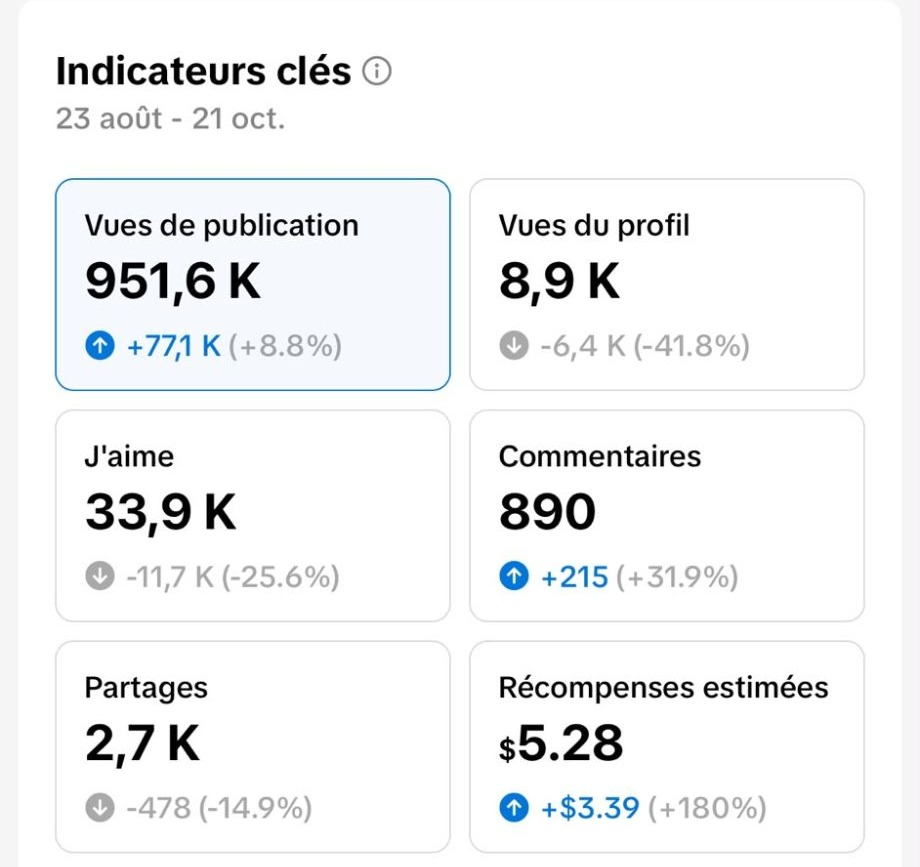
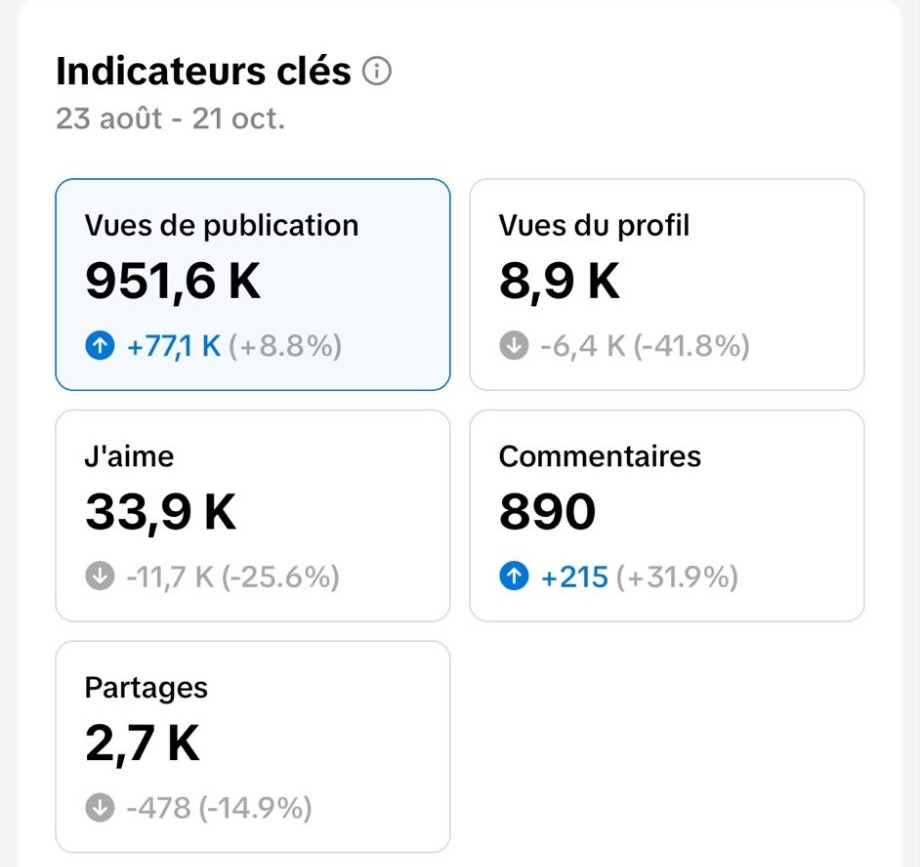
Hide TikTok rewards card and drop other-countries row

Changed region(s): [[0.5174, 0.7785, 0.913, 0.9654]]

diff --git a/index.html b/index.html
@@ -399,9 +399,7 @@ function audienceHTML(){
       <div class="aud-rows">
         <div class="aud-row"><div class="tp"><span>🇫🇷 France</span><span class="pc">68,6 %</span></div><div class="bt"><div class="bf" data-w="100"></div></div></div>
         <div class="aud-row"><div class="tp"><span>🇧🇪 Belgique</span><span class="pc">5,9 %</span></div><div class="bt"><div class="bf" data-w="13"></div></div></div>
-        <div class="aud-row"><div class="tp"><span>🇨🇭 Suisse</span><span class="pc">2,7 %</span></div><div class="bt"><div class="bf" data-w="8"></div></div></div>
-        <div class="aud-row"><div class="tp"><span>🌍 + autres</span><span class="pc">22,8 %</span></div><div class="bt"><div class="bf" data-w="33"></div></div></div>
-      </div>
+        <div class="aud-row"><div class="tp"><span>🇨🇭 Suisse</span><span class="pc">2,7 %</span></div><div class="bt"><div class="bf" data-w="8"></div></div></div>      </div>
     </div>
     <div class="aud-gender reveal">
       <div class="big">89,5 % de <em>femmes</em></div>
